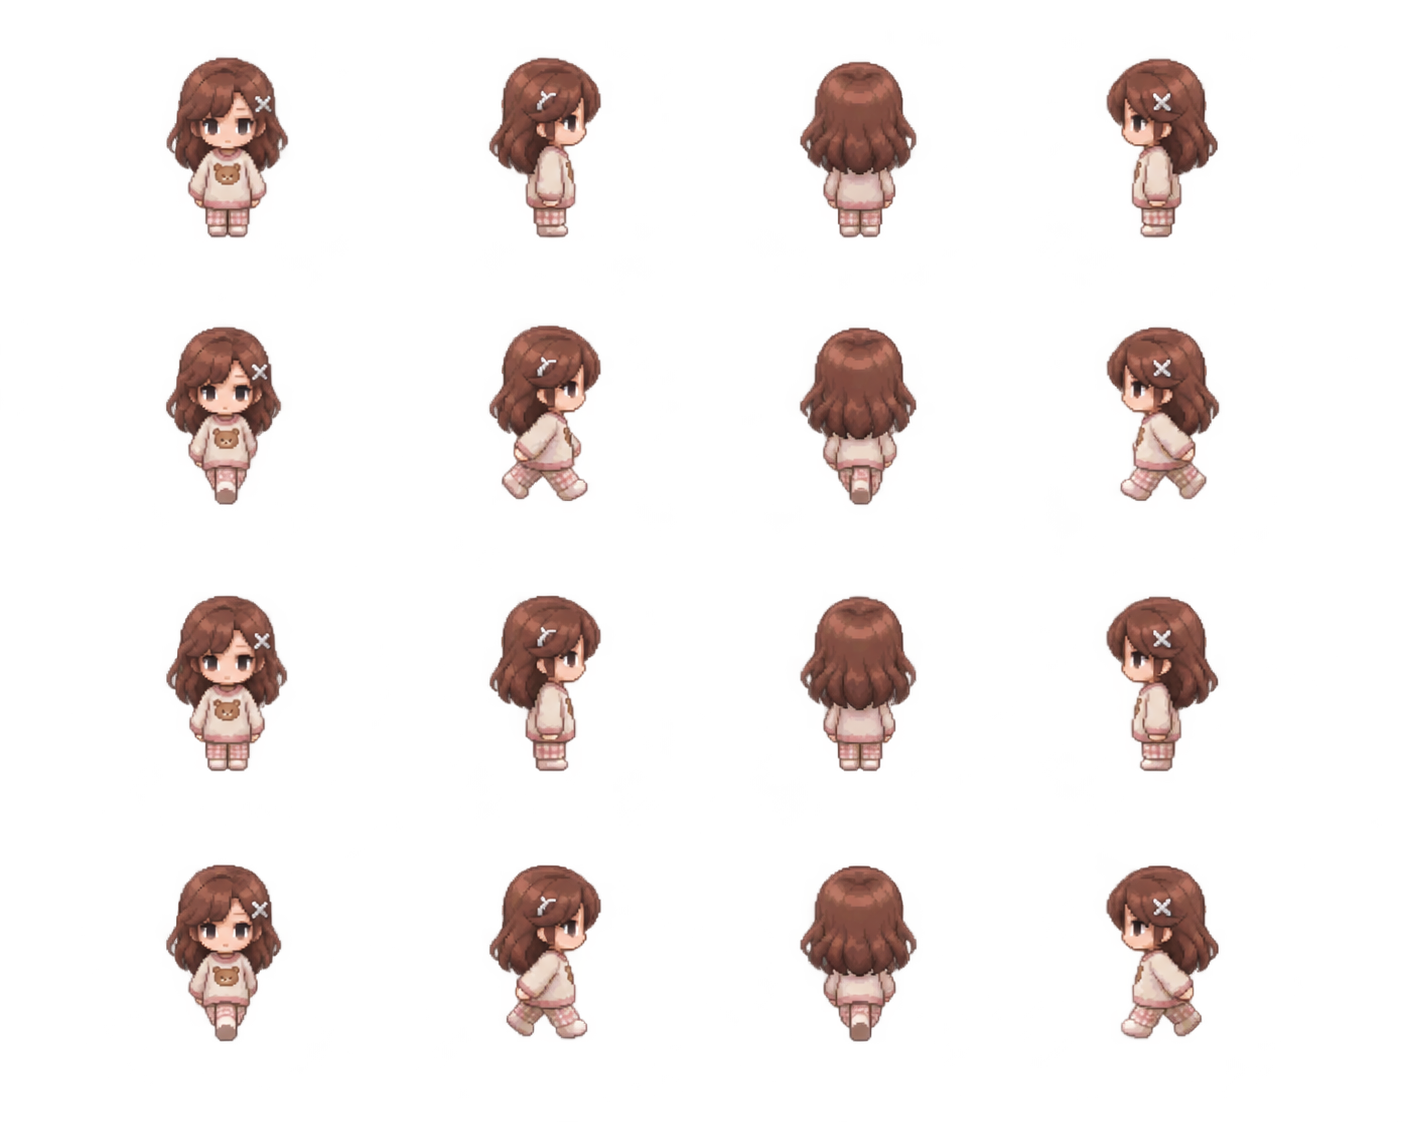
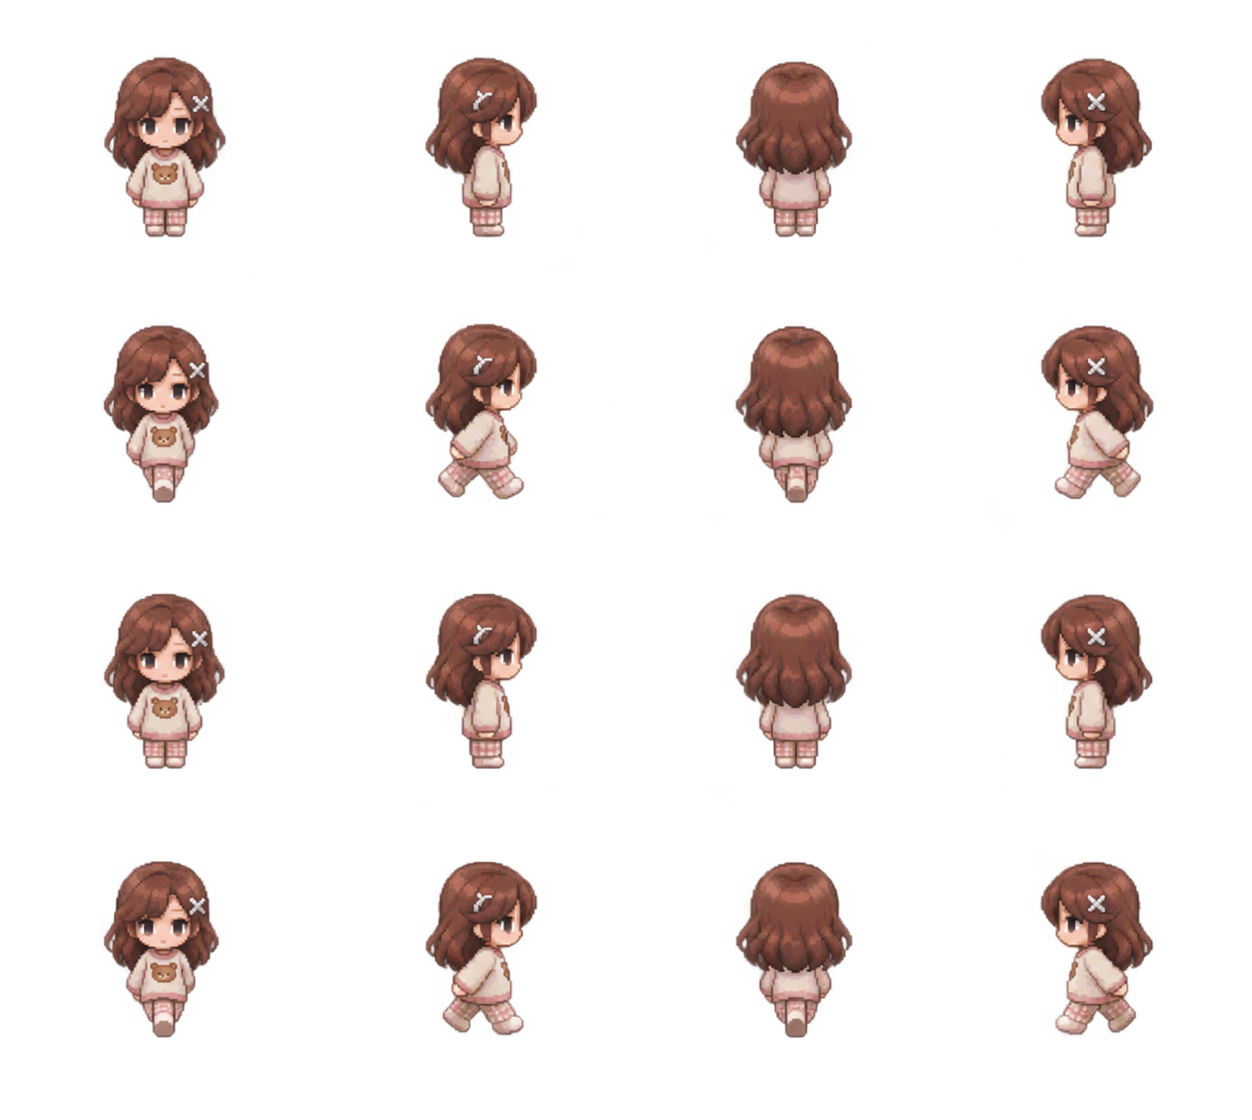
fix: 改善第二章碰撞箱、B 空間工作檯與角色素材

diff --git a/test/test_t3_room.py b/test/test_t3_room.py
@@ -191,7 +191,7 @@ class T3RoomTests(unittest.TestCase):
         furniture_bodies = {
             "desk_body": (138, 237, 109, 69),
             "safe_body": (300, 209, 69, 50),
-            "bed_body": (405, 224, 82, 80),
+            "bed_body": (407, 205, 79, 113),
             "bedside_table_body": (510, 221, 55, 76),
             "wardrobe_body": (604, 157, 95, 132),
         }
@@ -217,13 +217,13 @@ class T3RoomTests(unittest.TestCase):
             )
             gui.draw_space(surface, self.f.game, (0, 0))
         npc = room["decorations"]["young_li_nian"]
-        self.assertEqual((npc["x"], npc["y"], npc["width"], npc["height"]), (120, 215, 55, 75))
+        self.assertEqual((npc["x"], npc["y"], npc["width"], npc["height"]), (445, 253, 83, 113))
         sheet = gui.load_image(npc["asset"])
-        self.assertEqual(sheet.get_size(), (64, 51))
-        key = ("decoration_frame", npc["asset"], 4, 3, 0, 0)
+        self.assertEqual(sheet.get_size(), (1252, 1120))
+        key = ("decoration_frame", npc["asset"], 4, 4, 0, 0)
         frame = gui.image_cache[key]
-        self.assertEqual(frame.get_size(), (16, 17))
-        expected = sheet.subsurface(pygame.Rect(0, 0, 16, 17))
+        self.assertEqual(frame.get_size(), (313, 280))
+        expected = sheet.subsurface(pygame.Rect(0, 0, 313, 280))
         self.assertEqual(pygame.image.tobytes(frame, "RGBA"), pygame.image.tobytes(expected, "RGBA"))
         self.assertIs(frame, gui.image_cache[key])
         for obj in room["objects"].values():
